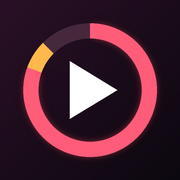
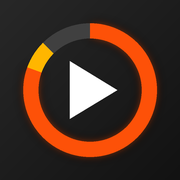
Tabata con Angelino: palette arancio corporate
- lavoro arancio/rosso, preparazione giallo/ambra, recupero rosa,
  pausa tra serie grigio chiaro, fondo nero neutro
- icone rigenerate con la nuova palette, cache service worker v3

Claude-Session: https://claude.ai/code/session_013y4taW26KYgtKwbwydUbfL

Changed region(s): [[0.1111, 0.1111, 0.8889, 0.8889], [0.3056, 0.25, 0.3333, 0.2778]]

diff --git a/tabata/index.html b/tabata/index.html
@@ -5,7 +5,7 @@
 <meta name="viewport" content="width=device-width,initial-scale=1,viewport-fit=cover,user-scalable=no">
 <title>Tabata con Angelino</title>
 <meta name="description" content="Timer Tabata e HIIT da usare sul telefono: lavoro, recupero, round e serie, con segnali acustici che continuano anche a schermo bloccato. Installabile come app.">
-<meta name="theme-color" content="#0e0c10">
+<meta name="theme-color" content="#121212">
 <meta name="format-detection" content="telephone=no">
 <meta name="apple-mobile-web-app-capable" content="yes">
 <meta name="mobile-web-app-capable" content="yes">
@@ -19,14 +19,14 @@
 <link href="https://fonts.googleapis.com/css2?family=Fraunces:opsz,ital,wght@9..144,0,500;9..144,0,700;9..144,1,500;9..144,1,700&family=Inter:wght@400;500;600;700;800&family=JetBrains+Mono:wght@500;700;800&display=swap" rel="stylesheet">
 <style>
   :root{
-    --bg:#0e0c10; --bg2:#17131a; --card:rgba(255,255,255,.055); --card-line:rgba(255,255,255,.09);
+    --bg:#121212; --bg2:#1c1c1c; --card:rgba(255,255,255,.055); --card-line:rgba(255,255,255,.09);
     --tx:#f7f3ee; --tx-soft:rgba(247,243,238,.72); --tx-mute:rgba(247,243,238,.48);
-    --prep:#ffb84c; --prep2:#ff8a3d;
-    --work:#ff4d6d; --work2:#ff8a3d;
-    --rest:#2ee6a8; --rest2:#17b6d9;
-    --setrest:#7c6cff; --setrest2:#3db2ff;
-    --done:#ffd36b; --done2:#ff6bcb;
-    --ph:#ff4d6d; --ph2:#ff8a3d;
+    --prep:#ffb600; --prep2:#eb8c00;
+    --work:#fd5108; --work2:#e0301e;
+    --rest:#e27588; --rest2:#db536a;
+    --setrest:#d1d1d1; --setrest2:#8c8c8c;
+    --done:#ffb600; --done2:#fd5108;
+    --ph:#fd5108; --ph2:#e0301e;
   }
   *{box-sizing:border-box;-webkit-tap-highlight-color:transparent}
   html{background:var(--bg)}
@@ -39,11 +39,11 @@
     background:
       radial-gradient(42% 32% at 18% 12%, color-mix(in srgb, var(--ph) 38%, transparent), transparent 70%),
       radial-gradient(48% 36% at 88% 38%, color-mix(in srgb, var(--ph2) 30%, transparent), transparent 70%),
-      radial-gradient(60% 40% at 50% 110%, rgba(124,108,255,.22), transparent 70%);
+      radial-gradient(60% 40% at 50% 110%, rgba(253,81,8,.16), transparent 70%);
     transition:background .6s ease;filter:saturate(1.15)}
   button{font:inherit;color:inherit;cursor:pointer;border:none;background:none;touch-action:manipulation;user-select:none;-webkit-user-select:none}
 
-  body[data-phase="idle"]{--ph:var(--work);--ph2:var(--setrest)}
+  body[data-phase="idle"]{--ph:var(--work);--ph2:var(--prep)}
   body[data-phase="prep"]{--ph:var(--prep);--ph2:var(--prep2)}
   body[data-phase="work"]{--ph:var(--work);--ph2:var(--work2)}
   body[data-phase="rest"]{--ph:var(--rest);--ph2:var(--rest2)}
@@ -68,7 +68,7 @@
 
   /* stage */
   .stage{position:relative;border-radius:32px;padding:18px 18px 22px;overflow:hidden;
-    background:linear-gradient(160deg, color-mix(in srgb, var(--ph) 26%, #19141c) 0%, #141016 55%, color-mix(in srgb, var(--ph2) 20%, #141016) 100%);
+    background:linear-gradient(160deg, color-mix(in srgb, var(--ph) 26%, #1e1e1e) 0%, #161616 55%, color-mix(in srgb, var(--ph2) 20%, #161616) 100%);
     border:1px solid color-mix(in srgb, var(--ph) 35%, transparent);
     box-shadow:0 30px 80px -30px color-mix(in srgb, var(--ph) 55%, transparent), inset 0 1px 0 rgba(255,255,255,.08);
     transition:background .6s ease, border-color .6s ease, box-shadow .6s ease}
@@ -76,9 +76,9 @@
   @keyframes flash{0%{box-shadow:0 0 0 0 color-mix(in srgb, var(--ph) 80%, transparent)}100%{box-shadow:0 0 0 26px transparent}}
   .phase-row{display:flex;justify-content:space-between;align-items:center;gap:8px}
   .pill{display:inline-flex;align-items:center;gap:8px;font-size:12px;font-weight:800;letter-spacing:.2em;
-    text-transform:uppercase;color:#120e14;background:linear-gradient(90deg,var(--ph),var(--ph2));
+    text-transform:uppercase;color:#161616;background:linear-gradient(90deg,var(--ph),var(--ph2));
     padding:7px 14px;border-radius:999px;box-shadow:0 6px 20px -6px var(--ph);transition:background .4s}
-  .pill::before{content:"";width:7px;height:7px;border-radius:50%;background:#120e14;opacity:.7}
+  .pill::before{content:"";width:7px;height:7px;border-radius:50%;background:#161616;opacity:.7}
   body[data-phase="work"] .pill::before{animation:blink 1s infinite}
   @keyframes blink{50%{opacity:.15}}
   .counts{display:flex;gap:14px}
@@ -120,7 +120,7 @@
     background:linear-gradient(140deg,var(--ph),var(--ph2));
     box-shadow:0 16px 40px -12px var(--ph), inset 0 2px 0 rgba(255,255,255,.35);transition:transform .1s ease}
   .play:active{transform:scale(.95)}
-  .play svg{width:36px;height:36px;fill:#120e14}
+  .play svg{width:36px;height:36px;fill:#161616}
   .reset{display:block;margin:14px auto 0;font-size:12px;color:var(--tx-mute);font-weight:700;letter-spacing:.18em;text-transform:uppercase;padding:6px 10px}
 
   /* cards */
@@ -138,8 +138,8 @@
   .chip{flex:0 0 auto;font-size:12.5px;font-weight:700;padding:9px 13px;border-radius:16px;
     border:1px solid var(--card-line);background:rgba(255,255,255,.05);color:var(--tx-soft);text-align:left;line-height:1.25}
   .chip small{display:block;font-weight:600;color:var(--tx-mute);font-family:'JetBrains Mono',monospace;font-size:10.5px;margin-top:2px}
-  .chip.on{background:linear-gradient(140deg,var(--work),var(--work2));color:#120e14;border-color:transparent;box-shadow:0 8px 22px -10px var(--work)}
-  .chip.on small{color:rgba(18,14,20,.7)}
+  .chip.on{background:linear-gradient(140deg,var(--work),var(--work2));color:#161616;border-color:transparent;box-shadow:0 8px 22px -10px var(--work)}
+  .chip.on small{color:rgba(22,22,22,.7)}
 
   .row{display:flex;align-items:center;justify-content:space-between;gap:10px;padding:10px 0;border-top:1px solid rgba(255,255,255,.06)}
   .row:first-of-type{border-top:none}
@@ -179,7 +179,7 @@
 
   /* install sheet */
   .sheet-bg{position:fixed;inset:0;background:rgba(0,0,0,.55);opacity:0;pointer-events:none;transition:opacity .2s;z-index:40}
-  .sheet{position:fixed;left:0;right:0;bottom:0;z-index:41;background:#1a1520;border-top:1px solid var(--card-line);border-radius:26px 26px 0 0;
+  .sheet{position:fixed;left:0;right:0;bottom:0;z-index:41;background:#1e1e1e;border-top:1px solid var(--card-line);border-radius:26px 26px 0 0;
     padding:22px 20px calc(24px + env(safe-area-inset-bottom));max-width:520px;margin:0 auto;
     transform:translateY(105%);transition:transform .25s ease;color:var(--tx)}
   body.sheet-open .sheet-bg{opacity:1;pointer-events:auto}
@@ -190,10 +190,10 @@
   .sheet li{counter-increment:s;display:flex;gap:12px;align-items:flex-start;padding:10px 0;border-top:1px solid rgba(255,255,255,.07);font-size:14px;color:var(--tx-soft)}
   .sheet li b{color:var(--tx)}
   .sheet li:first-child{border-top:none}
-  .sheet li::before{content:counter(s);flex:0 0 26px;height:26px;border-radius:50%;background:linear-gradient(140deg,var(--work),var(--work2));color:#120e14;
+  .sheet li::before{content:counter(s);flex:0 0 26px;height:26px;border-radius:50%;background:linear-gradient(140deg,var(--work),var(--work2));color:#161616;
     font-weight:800;font-size:13px;display:grid;place-items:center}
   .sheet li svg{width:16px;height:16px;vertical-align:-3px;fill:none;stroke:var(--setrest2);stroke-width:2}
-  .sheet .close{display:block;width:100%;margin-top:14px;padding:14px;border-radius:16px;background:linear-gradient(140deg,var(--work),var(--work2));color:#120e14;font-weight:800}
+  .sheet .close{display:block;width:100%;margin-top:14px;padding:14px;border-radius:16px;background:linear-gradient(140deg,var(--work),var(--work2));color:#161616;font-weight:800}
   .sheet .note{font-size:12.5px;color:var(--tx-mute);margin:10px 0 0}
 
   @media (min-width:700px){ .app{padding-top:24px} }

diff --git a/tabata/sw.js b/tabata/sw.js
@@ -1,4 +1,4 @@
-const CACHE = 'tabata-v2';
+const CACHE = 'tabata-v3';
 const ASSETS = ['./', 'index.html', 'manifest.webmanifest', 'icon-180.png', 'icon-192.png', 'icon-512.png', 'icon-maskable-512.png'];
 
 self.addEventListener('install', e => {
